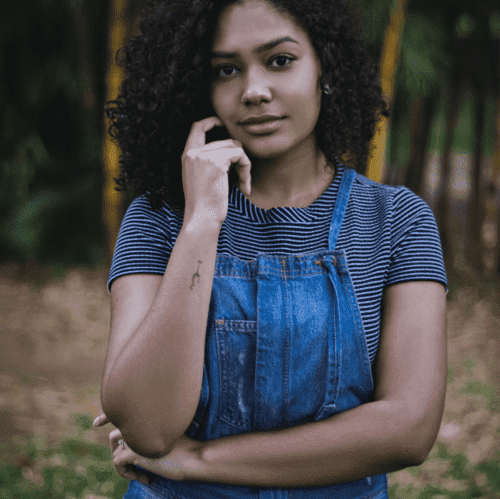
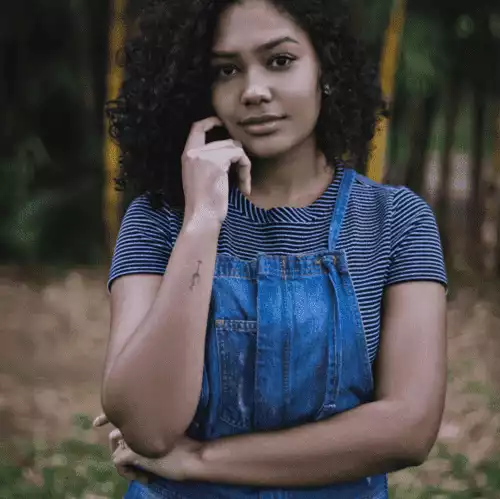
Image optimization

diff --git a/index.html b/index.html
@@ -9,22 +9,18 @@
 		content="Photographe portraitiste à Bordeaux, Nina Carducci capture les moments des événements les plus 
 		importants de votre vie pour vous laisser un souvenir palpable et inoubliable à travers des photos vivantes et authentiques.">
 	<link rel="icon" href="data:,">
-	<link rel="stylesheet" href="./assets/bootstrap.min.css">
-	<link rel="stylesheet" href="./assets/style.min.css">
+	<link rel="stylesheet preload" as="style" href="./assets/bootstrap.min.css">
+	<link rel="stylesheet preload" as="style" href="./assets/style.min.css">
 	<link rel="preconnect" href="https://fonts.googleapis.com">
 	<link rel="preconnect" href="https://fonts.gstatic.com" crossorigin>
 	<link
 		href="https://fonts.googleapis.com/css2?family=Inter&family=Spectral:ital,wght@0,400;1,300;1,400;1,800&display=swap"
-		rel="stylesheet">
+		rel="stylesheet preload" as="font">
 	<meta charset="UTF-8">
 
-	<script defer src="./assets/bootstrap/bootstrap.bundle.min.js"></script>
+
 	<!-- <script src="https://code.jquery.com/jquery-3.4.1.min.js"
 		integrity="sha256-CSXorXvZcTkaix6Yvo6HppcZGetbYMGWSFlBw8HfCJo=" crossorigin="anonymous"></script> -->
-	<script src="https://code.jquery.com/jquery-3.7.0.min.js"
-		integrity="sha256-2Pmvv0kuTBOenSvLm6bvfBSSHrUJ+3A7x6P5Ebd07/g=" crossorigin="anonymous"></script>
-	<script defer src="./assets/maugallery.min.js"></script>
-	<script defer src="./assets/scripts.js"></script>
 
 	<!-- Open Graph meta -->
 	<meta property="og:type" content="article">
@@ -36,8 +32,6 @@
 
 	<!-- Twitter meta -->
 	<meta property="twitter:card" content="summary">
-	<!-- <meta name="twitter:site" content="@photo_ninacarducci"> -->
-	<!-- <meta name="twitter:creator" content="@ninacarducci"> -->
 	<meta name="twitter:title" content="Photographe Nina Carducci">
 	<meta name="twitter:description" content="">
 	<meta name="twitter:image" content="https://ninacarducci.github.io/assets/images/nina.webp">
@@ -108,16 +102,56 @@
 			</div>
 			<div class="carousel-inner">
 				<div class="carousel-item active">
-					<img src="./assets/images/slider/ryoji-iwata-wUZjnOv7t0g-unsplash.webp" class="d-block w-100"
-						alt="Homme d'affaire marchant sur un passage-piéton" width="100%" height="100%">
+					<picture>
+						<source media="(max-width: 480px)"
+							srcset="assets/images/slider/ryoji-iwata-wUZjnOv7t0g-unsplash-480.webp 480w" sizes="100vw">
+						<source media="(max-width: 640px)"
+							srcset="assets/images/slider/ryoji-iwata-wUZjnOv7t0g-unsplash-640.webp 640w" sizes="100vw">
+						<source media="(max-width: 1024px)"
+							srcset="assets/images/slider/ryoji-iwata-wUZjnOv7t0g-unsplash-1024.webp 1024w"
+							sizes="100vw">
+						<source media="(min-width: 1025px)"
+							srcset="assets/images/slider/ryoji-iwata-wUZjnOv7t0g-unsplash-large.webp" sizes="100vw">
+						<img src=" ./assets/images/slider/ryoji-iwata-wUZjnOv7t0g-unsplash.jpg" class="d-block w-100"
+							alt="Homme d'affaire marchant sur un passage-piéton" width="100%" height="100%">
+					</picture>
 				</div>
 				<div class="carousel-item">
-					<img src="./assets/images/slider/nicholas-green-nPz8akkUmDI-unsplash.webp" class="d-block w-100"
-						alt="Foule de jeunes gens encourageant">
+					<picture>
+						<source media="(max-width: 480px)"
+							srcset="assets/images/slider/nicholas-green-nPz8akkUmDI-unsplash-480.webp 480w"
+							sizes="100vw">
+						<source media="(max-width: 640px)"
+							srcset="assets/images/slider/nicholas-green-nPz8akkUmDI-unsplash-640.webp 640w"
+							sizes="100vw">
+						<source media="(max-width: 1024px)"
+							srcset="assets/images/slider/nicholas-green-nPz8akkUmDI-unsplash-1024.webp 1024w"
+							sizes="100vw">
+						<source media="(min-width: 1025px)"
+							srcset="./assets/images/slider/nicholas-green-nPz8akkUmDI-unsplash-large.webp"
+							sizes="100vw">
+						<img src="./assets/images/slider/nicholas-green-nPz8akkUmDI-unsplash.jpg" class="d-block w-100"
+							alt="Foule de jeunes gens encourageant" width="100%" height="100%">
+					</picture>
 				</div>
 				<div class="carousel-item">
-					<img src="./assets/images/slider/edward-cisneros-3_h6-1NPDGw-unsplash.webp" class="d-block w-100"
-						alt="Jeunes mariés dansant et s'embrassant sous les applaudissements des invités">
+					<picture>
+						<source media="(max-width: 480px)"
+							srcset="assets/images/slider/edward-cisneros-3_h6-1NPDGw-unsplash-480.webp 480w"
+							sizes="100vw">
+						<source media="(max-width: 640px)"
+							srcset="assets/images/slider/edward-cisneros-3_h6-1NPDGw-unsplash-640.webp 640w"
+							sizes="100vw">
+						<source media="(max-width: 1024px)"
+							srcset="assets/images/slider/edward-cisneros-3_h6-1NPDGw-unsplash-1024.webp 1024w"
+							sizes="100vw">
+						<source media="(min-width: 1025px)"
+							srcset="./assets/images/slider/edward-cisneros-3_h6-1NPDGw-unsplash-large.webp"
+							sizes="100vw">
+						<img src="./assets/images/slider/edward-cisneros-3_h6-1NPDGw-unsplash.jpg" class="d-block w-100"
+							alt="Jeunes mariés dansant et s'embrassant sous les applaudissements des invités"
+							width="100%" height="100%">
+					</picture>
 				</div>
 			</div>
 			<button class="carousel-control-prev" type="button" data-bs-target="#carouselExampleIndicators"
@@ -182,10 +216,10 @@
 		<div class="quote">
 			<figure>
 				<blockquote>
-					<h3 class="quote__text">Un portrait n’est pas une ressemblance. Dès lors qu’une émotion ou qu’un
+					<p class="quote__text">Un portrait n’est pas une ressemblance. Dès lors qu’une émotion ou qu’un
 						fait est traduit en photo, il cesse d’être un fait pour devenir une opinion. L’inexactitude
 						n’existe pas en photographie. Toutes les photos sont exactes. Aucune d’elles n’est la vérité.
-					</h3>
+					</p>
 				</blockquote>
 				<figcaption class="quote__author">- Richard Avedon</figcaption>
 			</figure>
@@ -261,6 +295,15 @@
 			</div>
 		</div>
 	</div>
+	<script defer src="https://code.jquery.com/jquery-3.7.0.min.js"
+		integrity="sha256-2Pmvv0kuTBOenSvLm6bvfBSSHrUJ+3A7x6P5Ebd07/g=" crossorigin="anonymous"></script>
+	<script defer src="./assets/scripts.js"></script>
+	<script defer src="./assets/maugallery.min.js"></script>
+	<script async src="./assets/bootstrap/bootstrap.bundle.min.js"></script>
+
+	<!-- media="(max-width: 768px)" 
+		srcset="assets/images/slider/image-1-768.webp 768w" 
+		sizes="100vw"  -->
 </body>
 
 </html>

diff --git a/assets/style.min.css b/assets/style.min.css
@@ -1,4 +1,4 @@
-body{max-width:1920px;margin:auto}*{font-family:'Inter';font-style:normal}.top-header{background-color:#fff;position:sticky;top:0;z-index:1000;display:flex;justify-content:space-between;padding-inline:100px;padding-block:30px;align-items:center}.top-header .name{font-size:26px}.nav ul{display:flex;list-style-type:none;font-size:14px;margin-bottom:0}.nav li{padding-inline:10px}.nav a{text-decoration:none;color:#000}.social-link img{width:20px;height:20px}#about{display:flex;background-color:#f6d2b8;padding-inline:100px;padding-block:100px;position:relative}.picture.left:before{content:' ';background-color:#e5975f;width:374px;height:329px;position:absolute;bottom:0;left:0;z-index:-1}.picture{flex:1;margin:0 20px;z-index:0}.picture img{width:100%;height:100%}#about-me{flex:2;margin-left:70px}.about-me__title{margin-top:1em;margin-bottom:60px;font-size:30px}#about-me p{font-size:14px}#about-me .about-me__introduction{font-family:'Spectral';font-weight:800;font-style:italic;width:60%;font-size:16px}
+body{max-width:1920px;margin:auto}*{font-family:'Inter';font-style:normal}.top-header{background-color:#fff;position:sticky;top:0;z-index:1000;display:flex;justify-content:space-between;padding-inline:100px;padding-block:30px;align-items:center}.top-header .name{font-size:26px}.nav ul{display:flex;list-style-type:none;font-size:14px;margin-bottom:0}.nav li{padding-inline:10px}.nav a{text-decoration:none;color:#000}.social-link img{width:20px;height:20px}#about{display:flex;background-color:#f6d2b8;padding-inline:100px;padding-block:100px;position:relative}.picture.left:before{content:' ';background-color:#e5975f;width:374px;height:329px;position:absolute;bottom:0;left:0;z-index:-1}.picture{flex:1;margin:0 20px;z-index:0}.picture img{width:100%;height:auto}#about-me{flex:2;margin-left:70px}.about-me__title{margin-top:1em;margin-bottom:60px;font-size:30px}#about-me p{font-size:14px}#about-me .about-me__introduction{font-family:'Spectral';font-weight:800;font-style:italic;width:60%;font-size:16px}
 .title{text-align:center;padding-block:2em}.gallery .nav{justify-content:center}.nav-pills .nav-link.active,.nav-pills .show>.nav-link{color:#fff;background-color:#beb45a;border-radius:0}.nav-pills .nav-link{color:#000}.item-column{position:relative;margin-bottom:0 !important;padding:0}.item-column:after{content:"";display:block;padding-bottom:100%}.gallery-item{position:absolute;width:100%;height:100%;object-fit:cover;padding:.5em}.mg-prev,.mg-next{width:30px;height:30px;border-radius:0;justify-content:center;align-items:center;display:flex;font-size:24px}.quote{font-family:'Spectral';font-style:italic;width:70%;margin:auto;padding-block:3em}.quote__text{font-family:Spectral;font-style:italic;font-weight:300;font-size:calc(1.375rem + 1.5vw)}.quote__author{font-family:Spectral;font-weight:800;font-size:22px}#services{margin:auto;background-color:#a8d5d8;position:relative}#services .container:before{content:' ';background-color:#1c6474;position:absolute;width:100%;height:30%;bottom:0;left:0;z-index:0}
 #services .container{justify-content:space-between;display:flex;padding:2em 0}.service{background-color:#fff;max-width:390px;width:30%;height:337px;padding:1em;display:flex;flex-direction:column;justify-content:space-between;z-index:1}#contact{margin:auto;background-color:#d8d3a8;position:relative;padding-inline:100px;padding-block:100px}#contact .container{display:flex}.picture.right:before{content:' ';background-color:#beb45a;width:374px;height:329px;position:absolute;bottom:0;right:0;z-index:-1}.form-container{flex:2}form{display:flex;flex-direction:column;width:70%;align-items:flex-start}form input{width:100%;background-color:transparent;border:solid 1px;height:2.5em;margin-bottom:20px}form textarea{width:100%;background-color:transparent;border:solid 1px;height:5em;line-height:2.5em;font-size:1.2em;margin-bottom:20px}input[type=submit]{background-color:#beb45a;padding:.5em 1em}@media all and (max-width:1180px){.picture{flex:2}#about,#contact .container{align-items:center}
 .about-me__title{margin-top:0;margin-bottom:1em}#about-me .about-me__introduction,#about-me p{width:100%}}@media all and (max-width:1000px){#about{flex-direction:column}.picture{width:50%}.picture.left:before{width:100%;height:30%;position:absolute;bottom:auto;top:0;left:0;z-index:-1}#about-me{margin-left:0}.about-me__title{text-align:center;margin-top:1em}#services .container{flex-direction:column}.service{width:100%;max-width:100%;height:auto;margin:2em 0}.service__description{margin-bottom:1em}#services .container:before{width:30%;height:100%;bottom:0;right:0;left:auto;z-index:0}.form-container{display:flex;flex-direction:column;align-items:center}#contact .container{flex-direction:column}#contact .picture.right{margin-top:1em}.picture.right:before{width:100%;height:30%;position:absolute;bottom:0;right:0;z-index:-1}}@media all and (max-width:650px){.top-header{flex-direction:column;padding-inline:0}.top-header .nav,.top-header .nav ul{width:100%;padding:0}.top-header .nav li{flex:1;padding-block:1em;text-align:center}

diff --git a/assets/style.css b/assets/style.css
@@ -70,7 +70,7 @@ body {
 
 .picture img {
 	width: 100%;
-	height: 100%;
+	height: auto;
 }
 #about-me {
 	flex: 2;
